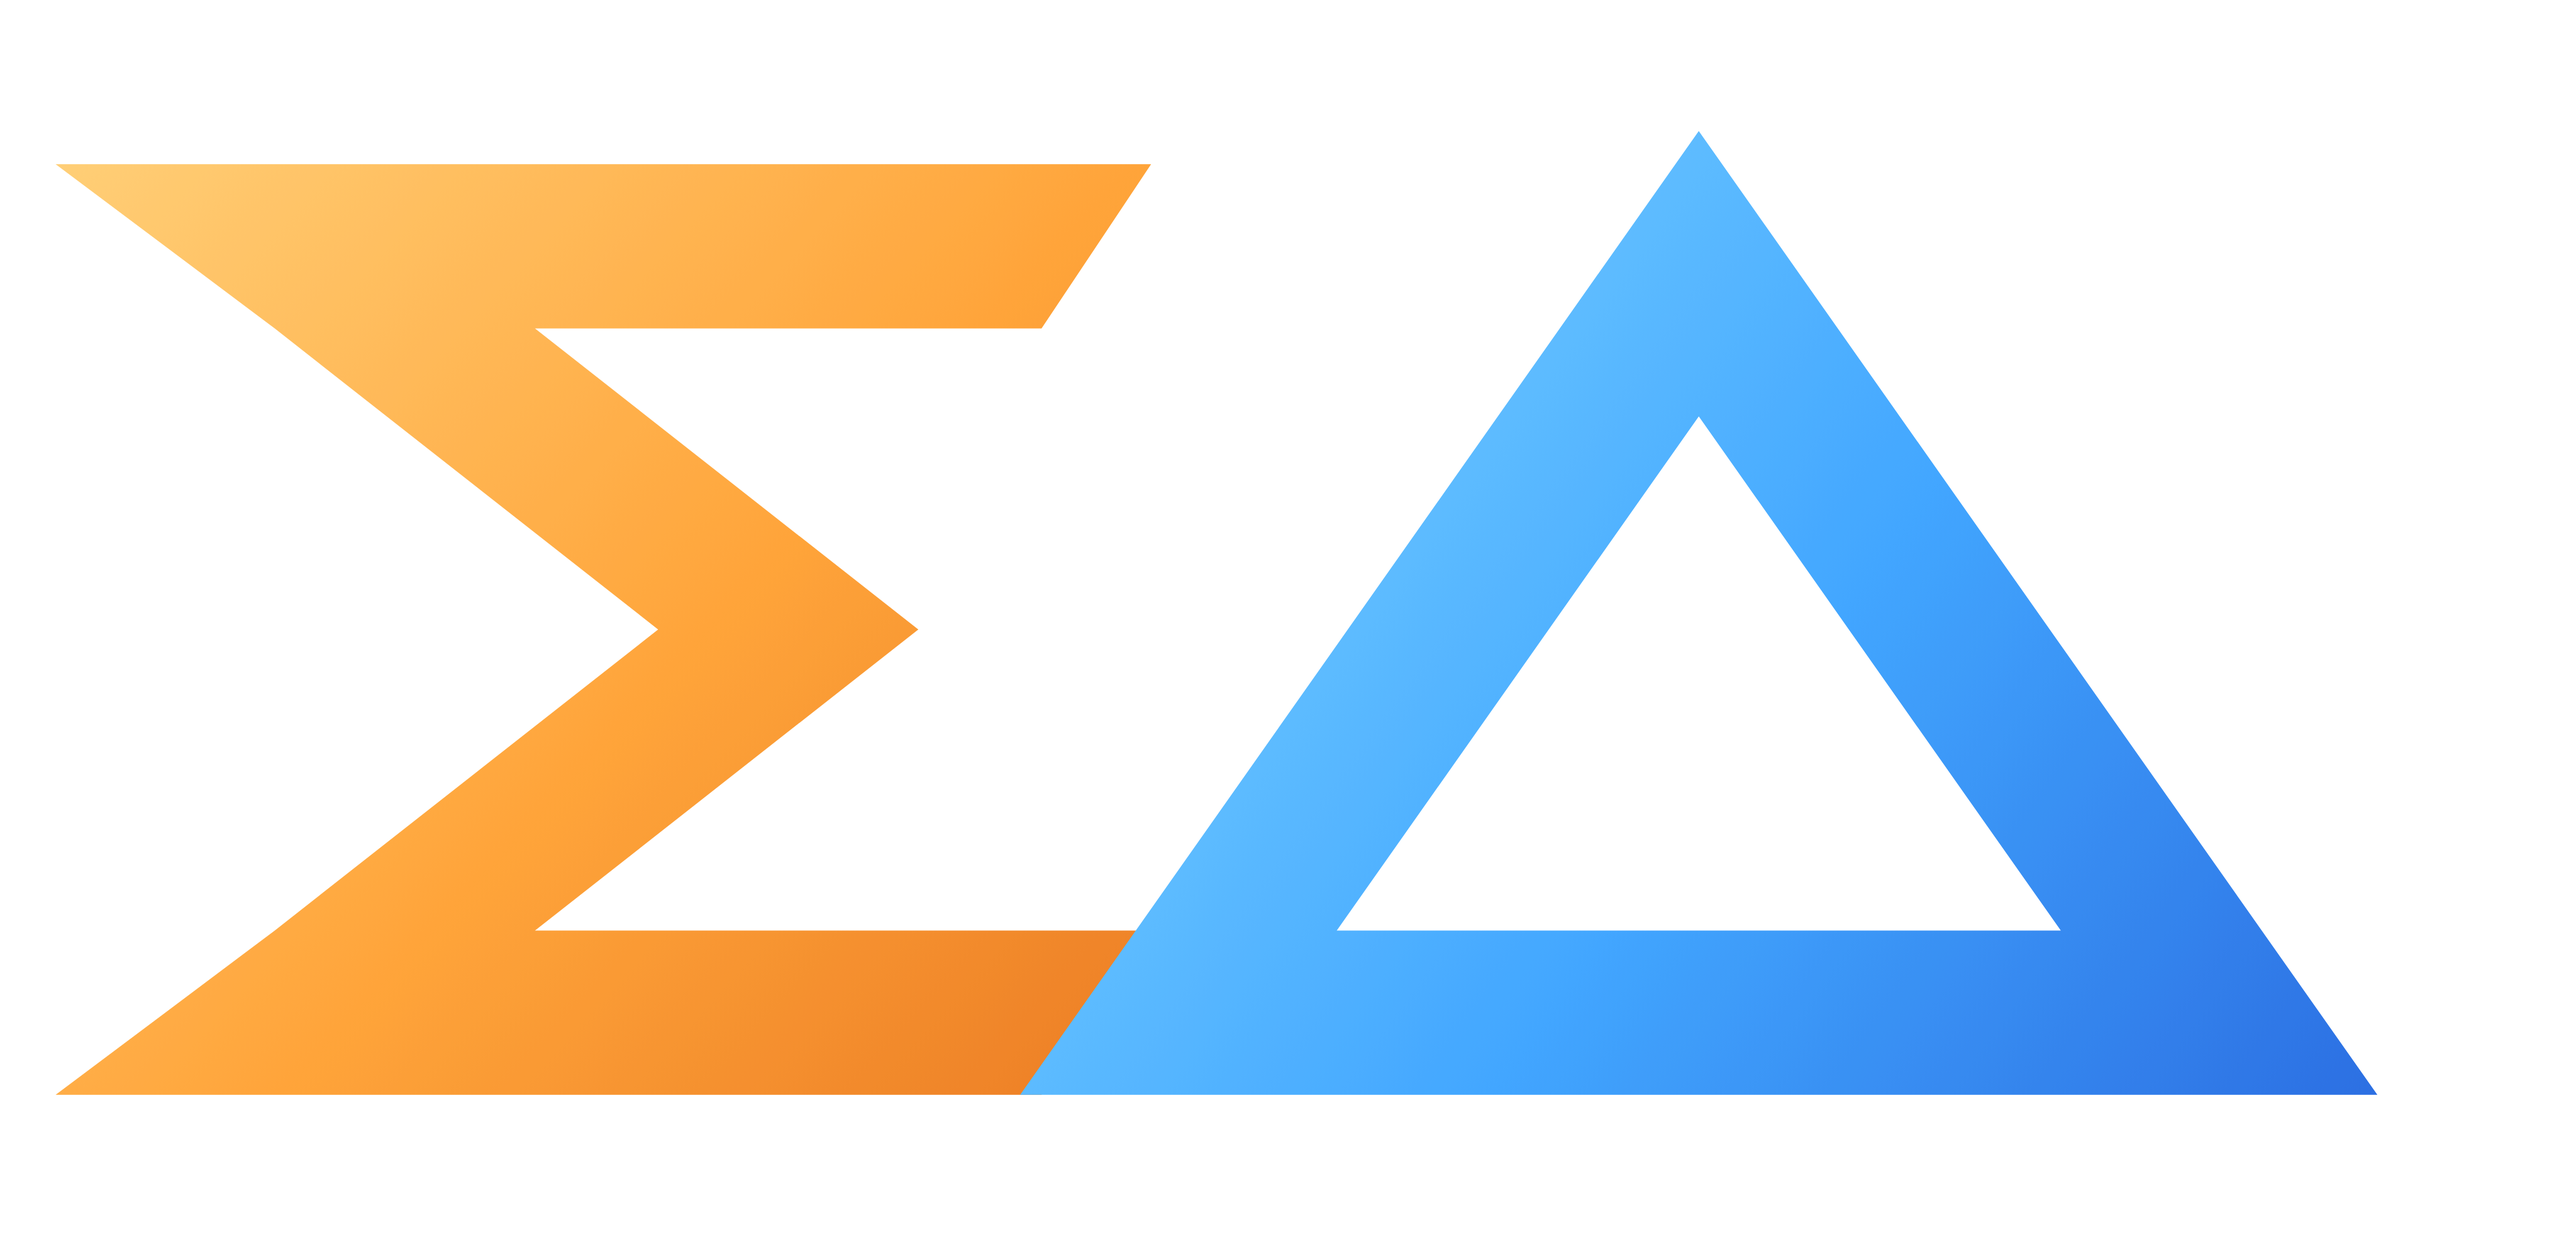
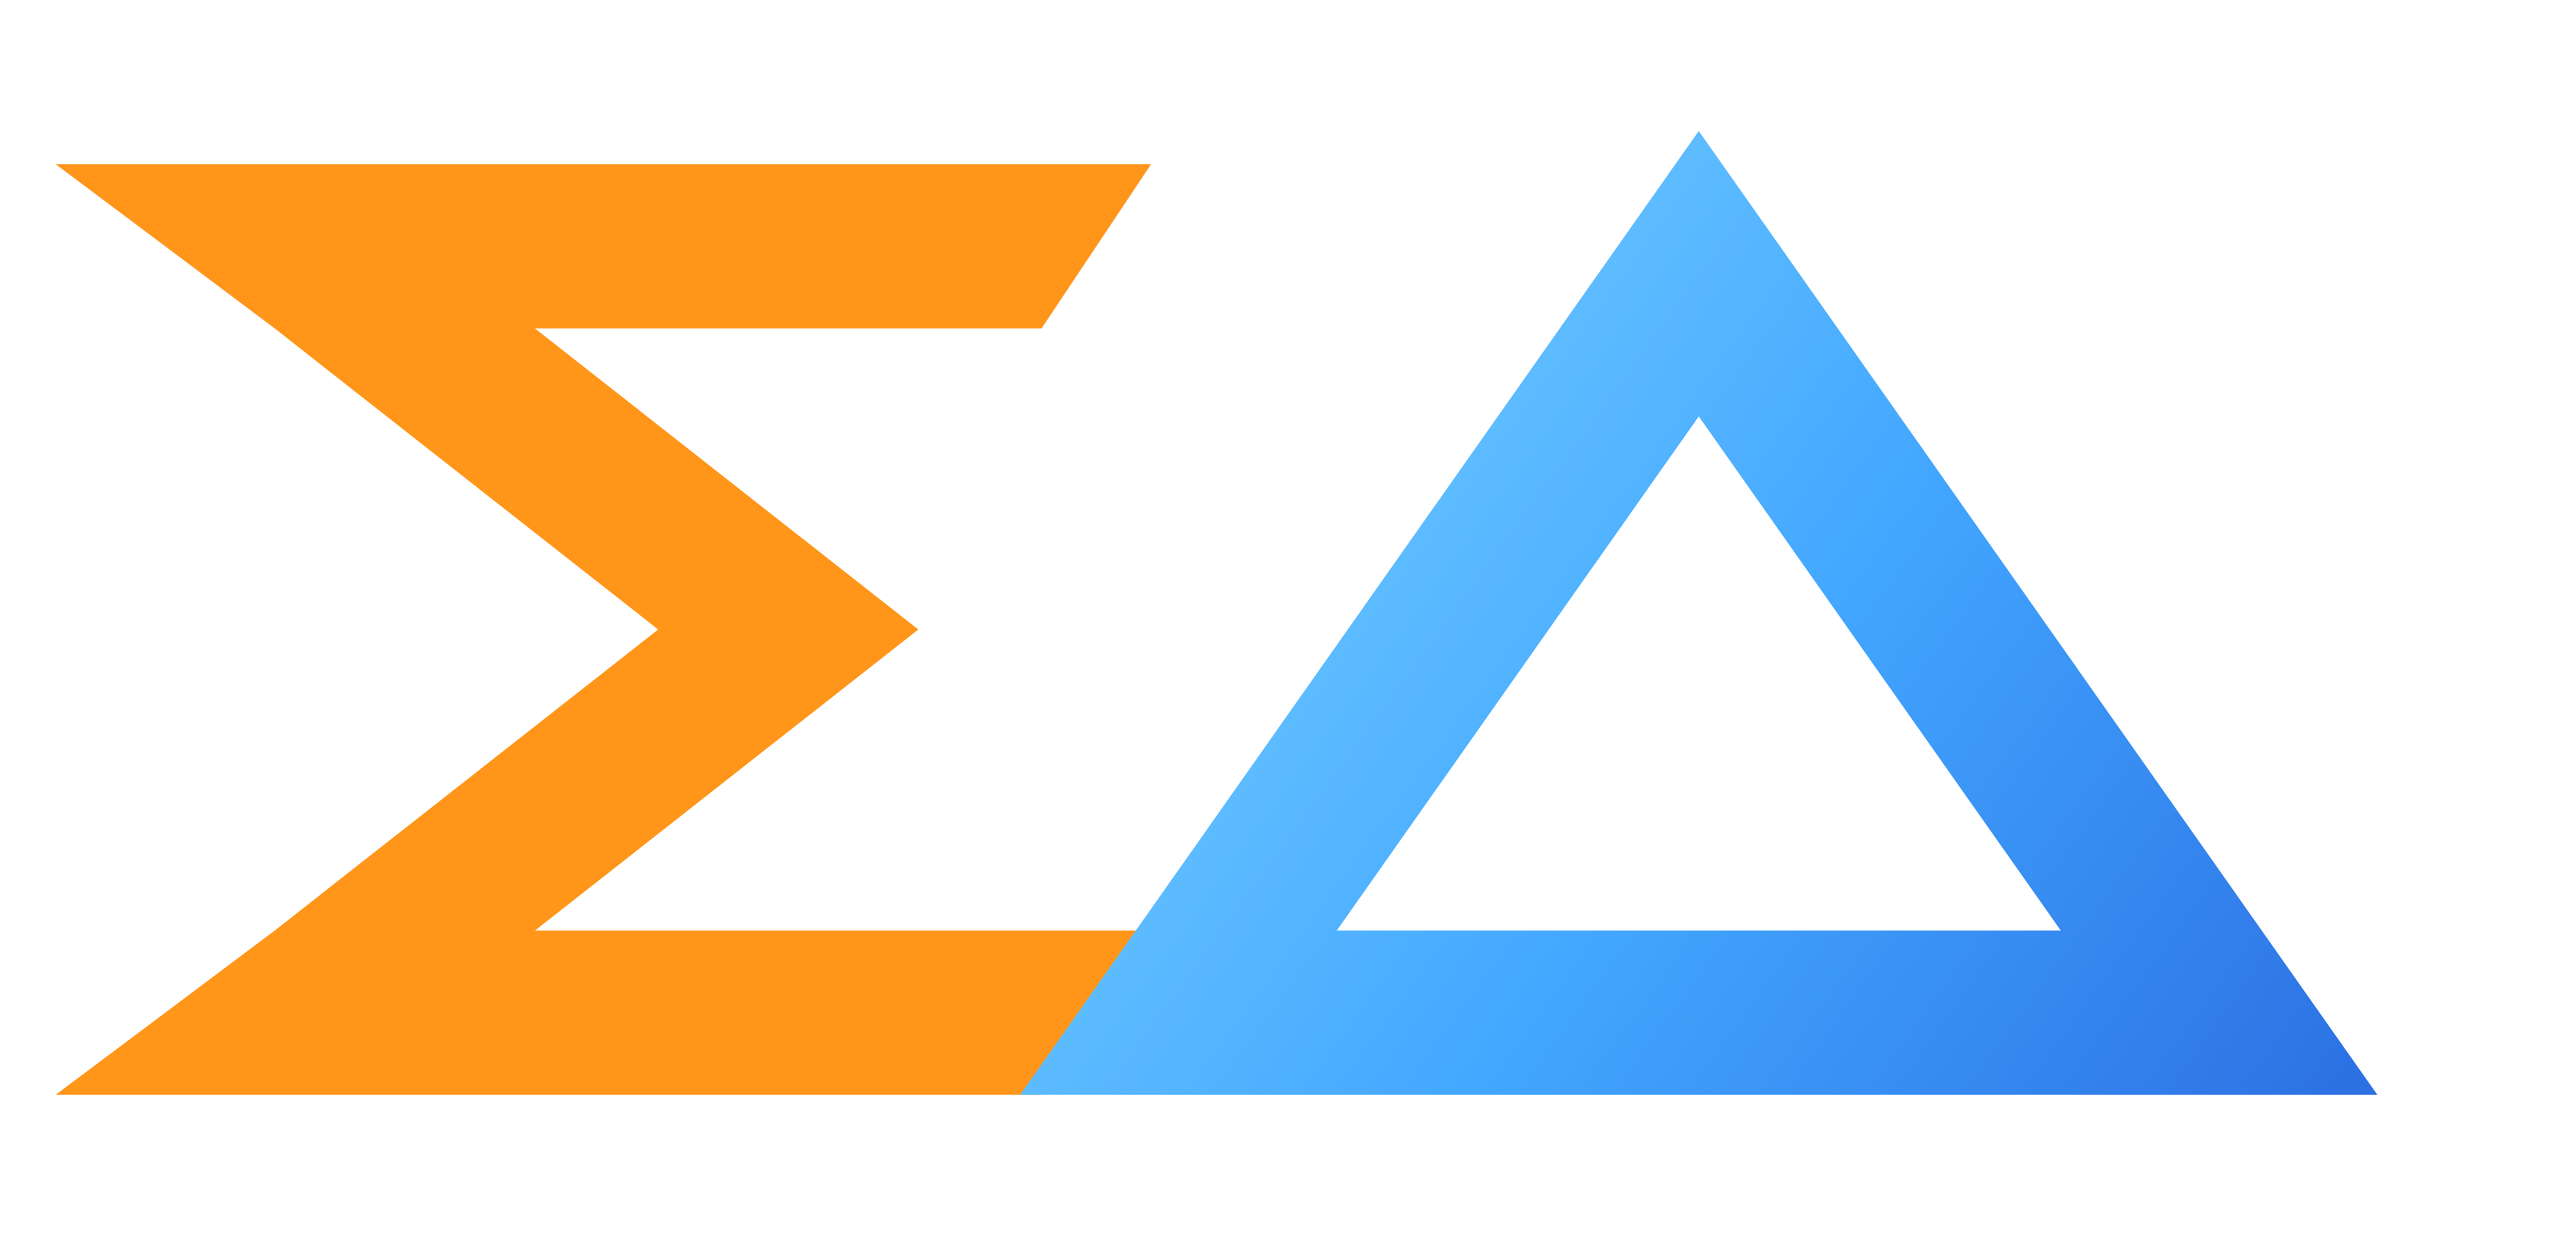
Make sigma mark solid orange

Changed region(s): [[0.0312, 0.1238, 0.4688, 0.8667]]

diff --git a/frontend/components/app-shell.tsx b/frontend/components/app-shell.tsx
@@ -213,7 +213,6 @@ type SigmaDeltaIconProps = SVGProps<SVGSVGElement> & {
 };
 
 function SigmaDeltaIcon({ gradientPrefix, ...props }: SigmaDeltaIconProps) {
-  const sigmaId = `${gradientPrefix}Sigma`;
   const deltaId = `${gradientPrefix}Delta`;
   const sigmaPath = "M2 6H42L38 12H19.5L33.5 23L19.5 34H42L38 40H2L10 34L24 23L10 12Z";
   const deltaPath = "M62 10L81 37H43Z";
@@ -226,19 +225,13 @@ function SigmaDeltaIcon({ gradientPrefix, ...props }: SigmaDeltaIconProps) {
       preserveAspectRatio="xMidYMid meet"
     >
       <defs>
-        <linearGradient id={sigmaId} x1="2" y1="6" x2="40" y2="41" gradientUnits="userSpaceOnUse">
-          <stop offset="0" stopColor="#ffc862" />
-          <stop offset="0.56" stopColor="#ff961a" />
-          <stop offset="1" stopColor="#e96800" />
-        </linearGradient>
         <linearGradient id={deltaId} x1="38" y1="6" x2="86" y2="41" gradientUnits="userSpaceOnUse">
           <stop offset="0" stopColor="#70d3ff" />
           <stop offset="0.56" stopColor="#2799ff" />
           <stop offset="1" stopColor="#0d59de" />
         </linearGradient>
       </defs>
-      <path d={sigmaPath} fill={`url(#${sigmaId})`} />
-      <path d={sigmaPath} fill="#fff4e4" fillOpacity="0.16" />
+      <path d={sigmaPath} fill="#ff961a" />
       <path
         d={deltaPath}
         fill="none"
